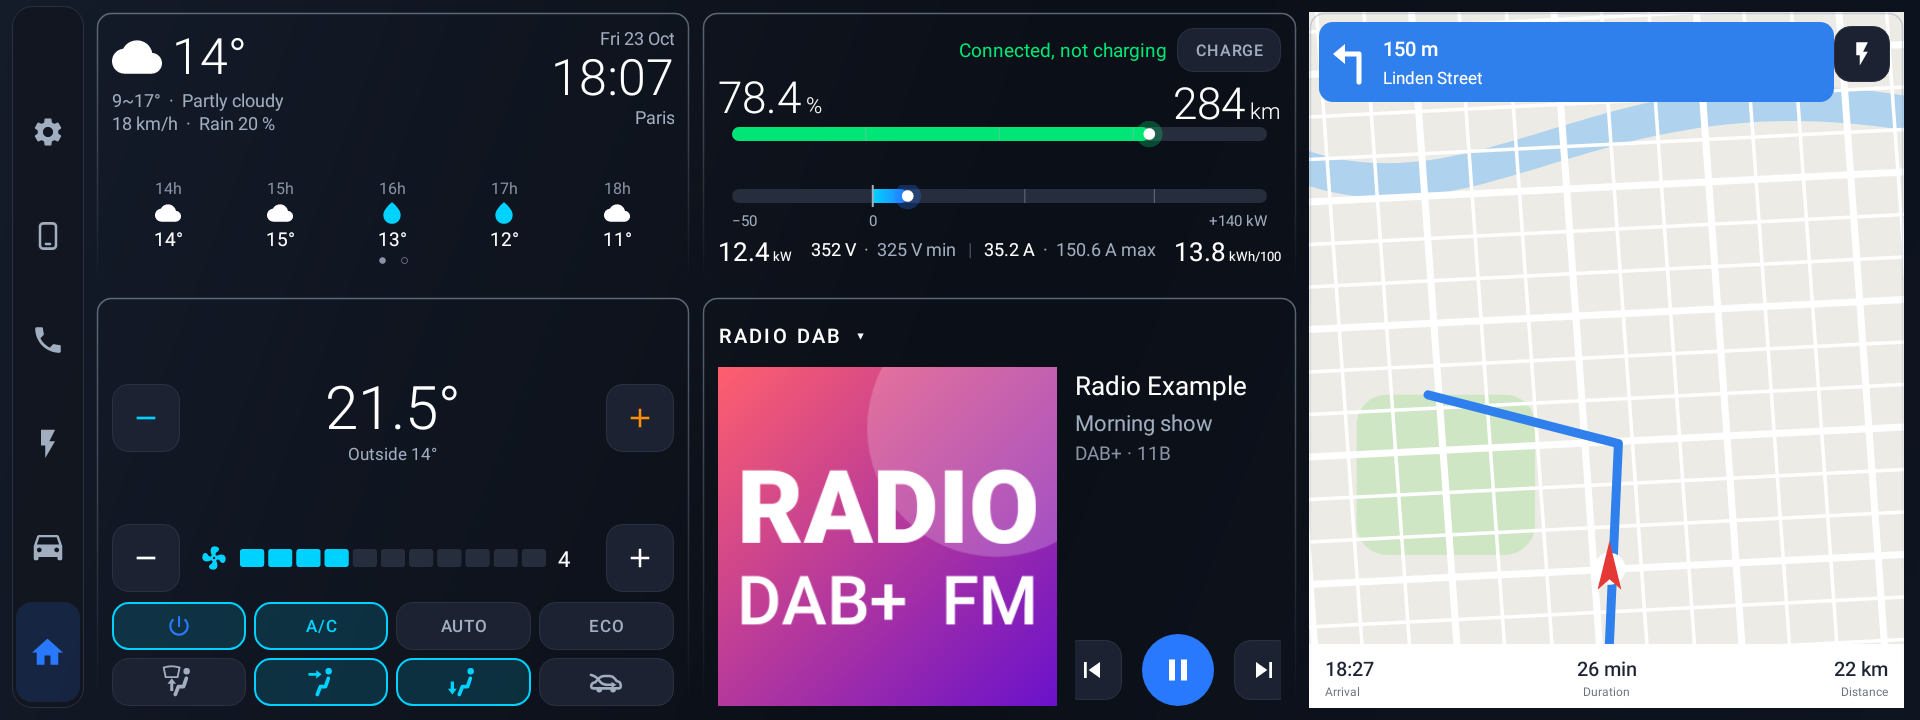
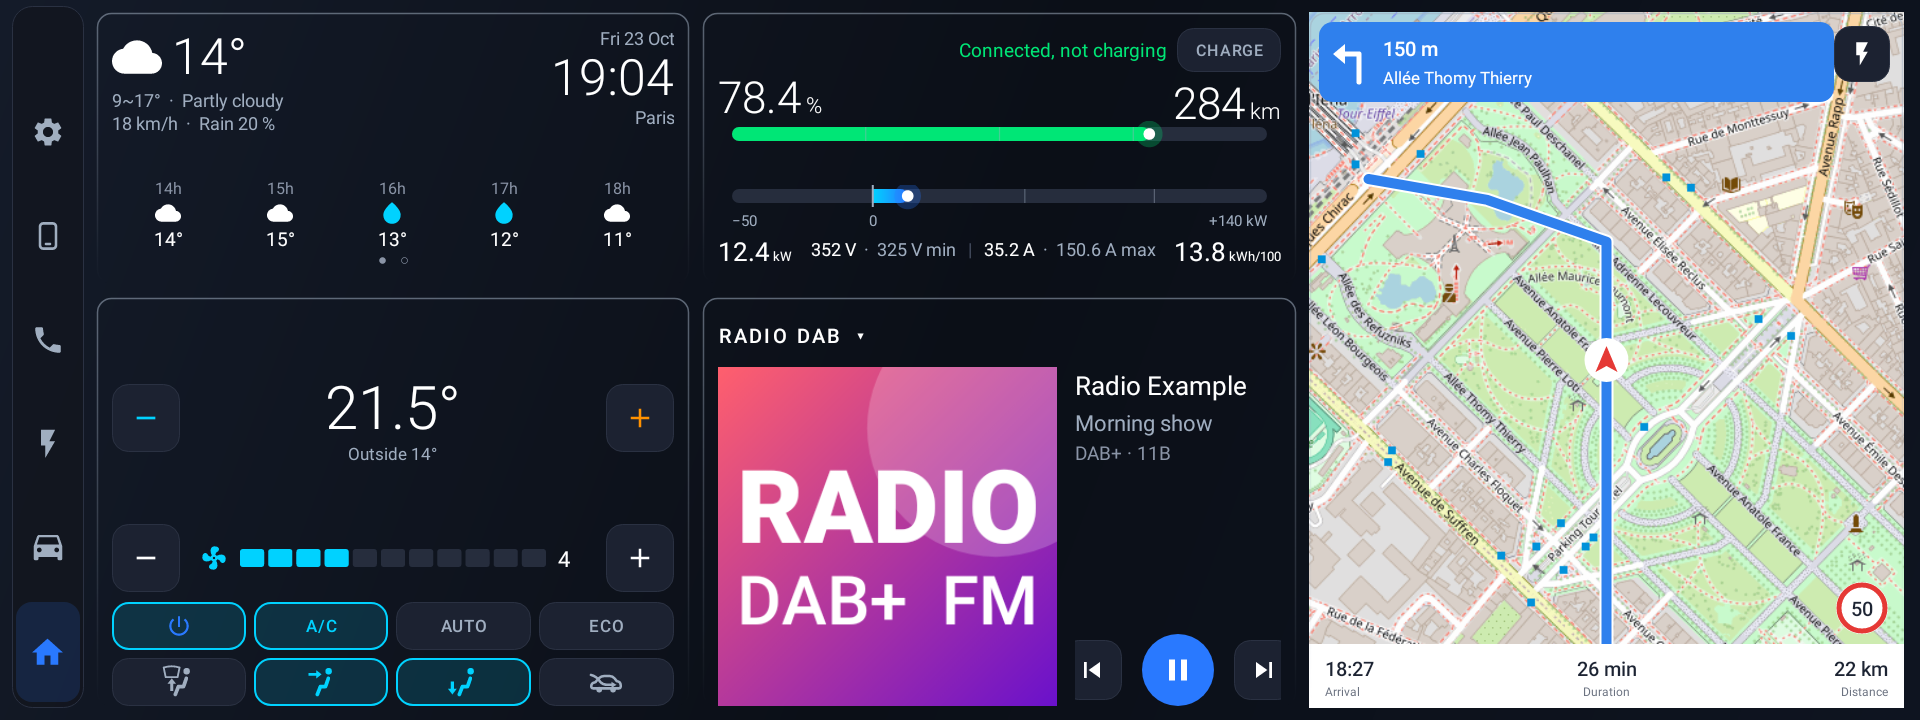
README: map card app illustrations drawn over OpenStreetMap

Changed region(s): [[0.6562, 0.0, 1.0, 0.9167], [0.2812, 0.0917, 0.375, 0.1222]]

diff --git a/app/src/testEmulator/java/app/mg4dash/FakeNavViews.kt b/app/src/testEmulator/java/app/mg4dash/FakeNavViews.kt
@@ -38,6 +38,14 @@ abstract class FakeAppView(context: Context) : View(context) {
         p.style = Paint.Style.FILL
     }
 
+    /** Trait d'itinéraire avec liseré blanc, comme dans les applis de navigation. */
+    protected fun routeLine(c: Canvas, path: Path, color: Int, widthDp: Float) {
+        p.style = Paint.Style.STROKE; p.strokeJoin = Paint.Join.ROUND; p.strokeCap = Paint.Cap.ROUND
+        p.color = Color.WHITE; p.strokeWidth = (widthDp + 4) * d; c.drawPath(path, p)
+        p.color = color; p.strokeWidth = widthDp * d; c.drawPath(path, p)
+        p.style = Paint.Style.FILL
+    }
+
     protected fun text(c: Canvas, s: String, x: Float, y: Float, sp: Float, color: Int, bold: Boolean = false, align: Paint.Align = Paint.Align.LEFT) {
         p.textSize = sp * resources.displayMetrics.scaledDensity; p.color = color; p.textAlign = align
         p.typeface = Typeface.create(if (bold) "sans-serif-medium" else "sans-serif", Typeface.NORMAL)
@@ -49,11 +57,14 @@ abstract class FakeAppView(context: Context) : View(context) {
 class FakePlannerView(context: Context) : FakeAppView(context) {
     override fun onDraw(c: Canvas) {
         val w = width.toFloat(); val h = height.toFloat()
-        streets(c, dark = true)
-        // Itinéraire
-        val route = Path().apply { moveTo(w * 0.12f, h * 0.88f); cubicTo(w * 0.3f, h * 0.7f, w * 0.25f, h * 0.45f, w * 0.5f, h * 0.42f); cubicTo(w * 0.75f, h * 0.38f, w * 0.7f, h * 0.2f, w * 0.86f, h * 0.12f) }
-        p.style = Paint.Style.STROKE; p.strokeWidth = 7 * d; p.color = 0xFF2E7DFF.toInt(); c.drawPath(route, p)
-        p.style = Paint.Style.FILL
+        // Carte OpenStreetMap dessous, assombrie comme un planificateur en thème sombre
+        p.style = Paint.Style.FILL; p.color = 0x8C0B0F17.toInt(); c.drawRect(0f, 0f, w, h, p)
+        // Itinéraire le long des grands axes (lignes brisées, coins arrondis)
+        val route = Path().apply {
+            moveTo(w * 0.12f, h * 0.88f); lineTo(w * 0.2f, h * 0.7f); lineTo(w * 0.33f, h * 0.62f); lineTo(w * 0.42f, h * 0.47f)
+            lineTo(w * 0.5f, h * 0.42f); lineTo(w * 0.62f, h * 0.36f); lineTo(w * 0.7f, h * 0.22f); lineTo(w * 0.86f, h * 0.12f)
+        }
+        routeLine(c, route, 0xFF2E7DFF.toInt(), 8f)
         fun stop(x: Float, y: Float, col: Int, label: String, sub: String, left: Boolean = false) {
             p.color = Color.WHITE; c.drawCircle(x, y, 13 * d, p); p.color = col; c.drawCircle(x, y, 9 * d, p)
             val r = if (left) RectF(x - 150 * d, y - 4 * d, x - 16 * d, y + 44 * d) else RectF(x + 16 * d, y - 26 * d, x + 150 * d, y + 22 * d)
@@ -78,13 +89,19 @@ class FakePlannerView(context: Context) : FakeAppView(context) {
 class FakeGuidanceView(context: Context) : FakeAppView(context) {
     override fun onDraw(c: Canvas) {
         val w = width.toFloat(); val h = height.toFloat()
-        streets(c, dark = false)
-        val route = Path().apply { moveTo(w * 0.5f, h); lineTo(w * 0.52f, h * 0.62f); lineTo(w * 0.2f, h * 0.55f) }
-        p.style = Paint.Style.STROKE; p.strokeWidth = 9 * d; p.strokeJoin = Paint.Join.ROUND; p.color = 0xFF2F80ED.toInt(); c.drawPath(route, p)
+        // Carte OpenStreetMap dessous ; itinéraire, puis bandeaux de l'appli
+        val route = Path().apply { moveTo(w * 0.5f, h); lineTo(w * 0.5f, h * 0.33f); lineTo(w * 0.3f, h * 0.27f); lineTo(w * 0.1f, h * 0.24f) }
+        routeLine(c, route, 0xFF2F80ED.toInt(), 10f)
+        // Limitation de vitesse
+        p.style = Paint.Style.FILL; p.color = Color.WHITE; c.drawCircle(w - 42 * d, h - 100 * d, 26 * d, p)
+        p.style = Paint.Style.STROKE; p.strokeWidth = 5 * d; p.color = 0xFFE53935.toInt(); c.drawCircle(w - 42 * d, h - 100 * d, 23 * d, p)
         p.style = Paint.Style.FILL
+        text(c, "50", w - 42 * d, h - 92 * d, 20f, 0xFF1D2433.toInt(), bold = true, align = Paint.Align.CENTER)
         // Position de la voiture
-        val car = Path().apply { moveTo(w * 0.505f, h * 0.76f); lineTo(w * 0.525f, h * 0.83f); lineTo(w * 0.505f, h * 0.815f); lineTo(w * 0.485f, h * 0.83f); close() }
-        p.color = Color.WHITE; c.drawCircle(w * 0.505f, h * 0.8f, 16 * d, p); p.color = 0xFFE53935.toInt(); c.drawPath(car, p)
+        // (posée sur le repère de position de la carte, au centre)
+        val cx = w * 0.5f; val cy = h * 0.5f
+        val car = Path().apply { moveTo(cx, cy - 14 * d); lineTo(cx + 11 * d, cy + 12 * d); lineTo(cx, cy + 6 * d); lineTo(cx - 11 * d, cy + 12 * d); close() }
+        p.color = Color.WHITE; c.drawCircle(cx, cy, 22 * d, p); p.color = 0xFFE53935.toInt(); c.drawPath(car, p)
         // Bandeau de direction
         val top = RectF(10 * d, 10 * d, w - 70 * d, 90 * d)
         p.color = 0xFF2F80ED.toInt(); c.drawRoundRect(top, 14 * d, 14 * d, p)
@@ -94,7 +111,7 @@ class FakeGuidanceView(context: Context) : FakeAppView(context) {
         val head = Path().apply { moveTo(top.left + 14 * d, top.top + 32 * d); lineTo(top.left + 26 * d, top.top + 22 * d); lineTo(top.left + 26 * d, top.top + 42 * d); close() }
         c.drawPath(head, p)
         text(c, "150 m", top.left + 64 * d, top.top + 34 * d, 20f, Color.WHITE, bold = true)
-        text(c, "Linden Street", top.left + 64 * d, top.top + 62 * d, 17f, Color.WHITE)
+        text(c, "Allée Thomy Thierry", top.left + 64 * d, top.top + 62 * d, 17f, Color.WHITE)
         // Bandeau du bas : arrivée, durée, distance
         val bar = RectF(0f, h - 64 * d, w, h)
         p.color = Color.WHITE; c.drawRect(bar, p)

diff --git a/app/src/testEmulator/java/app/mg4dash/ScreenshotTest.kt b/app/src/testEmulator/java/app/mg4dash/ScreenshotTest.kt
@@ -153,6 +153,9 @@ class ScreenshotTest {
         repeat(3) { shadowOf(Looper.getMainLooper()).idleFor(200, TimeUnit.MILLISECONDS) }
         val card = act.findViewById<android.widget.FrameLayout>(R.id.mapCard)
         val toggle = act.findViewById<View>(R.id.widgetToggle)
+        // Comme une vraie appli intégrée : boutons et vitesse de la carte cachés, la carte reste dessous
+        listOf(R.id.mapButtons).forEach { act.findViewById<View>(it)?.visibility = View.GONE }
+        (act.findViewById<View>(R.id.mapSpeed)?.parent as? View)?.visibility = View.GONE
         card.addView(make(act), card.indexOfChild(toggle), android.widget.FrameLayout.LayoutParams(-1, -1))
         repeat(2) { shadowOf(Looper.getMainLooper()).idleFor(200, TimeUnit.MILLISECONDS) }
         save(act.window.decorView, name)

diff --git a/README.md b/README.md
@@ -69,7 +69,7 @@ Card titles are left out on every layout for a calmer screen; the media card kee
 ### Another app in the map card
 | | |
 |---|---|
-| ![EV route planner in the map card](docs/screenshots/home_map_app_planner.png?v=15) | ![Navigation app in the map card](docs/screenshots/home_map_app_guidance.png?v=15) |
+| ![EV route planner in the map card](docs/screenshots/home_map_app_planner.png?v=16) | ![Navigation app in the map card](docs/screenshots/home_map_app_guidance.png?v=16) |
 
 Long press the map (or its top right button) to show another installed app inside the map card instead of the OpenStreetMap map, for example an EV route planner such as ABRP or a navigation app such as Waze. The app runs live in the card and can be touched, and a full screen button (below the top right one) enlarges it like the map. Pick "OpenStreetMap map" in the same list to go back. *Illustrations: the apps shown here are drawn for the example.*
 
